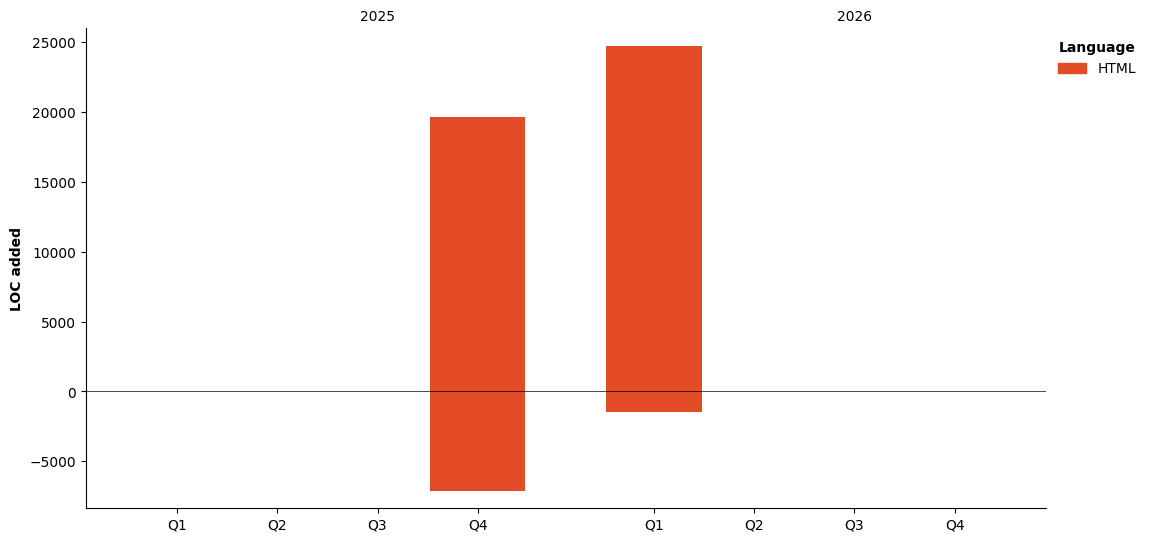
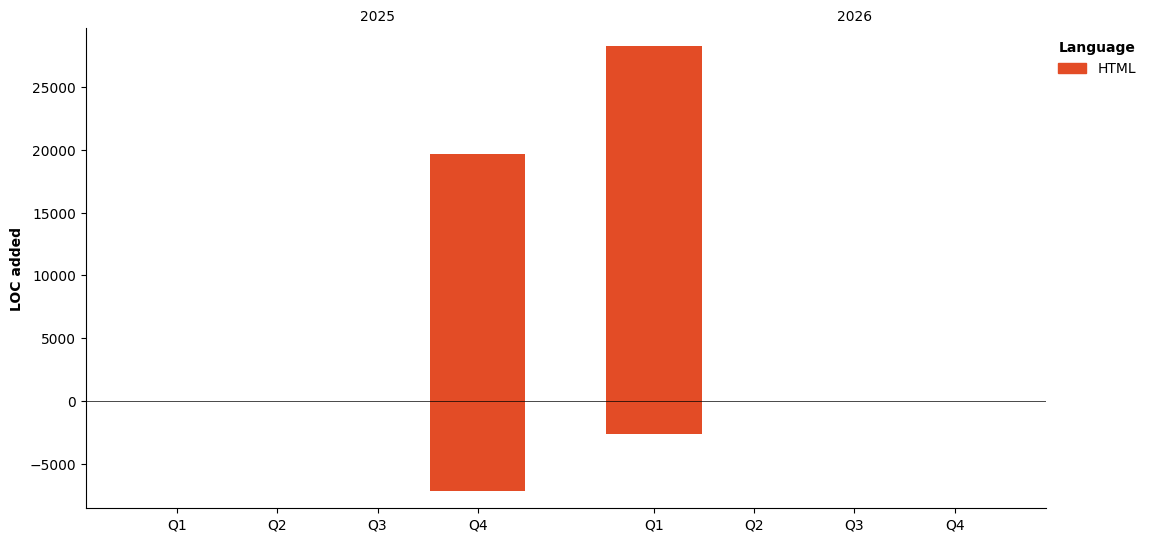
Updated with Dev Metrics

diff --git a/README.md b/README.md
@@ -18,7 +18,75 @@ I build AI-augmented knowledge infrastructure that compounds over time.
 **Total time in active development:**
 
 <!--START_SECTION:waka-->
-[![WakaTime](https://wakatime.com/badge/user/59d28359-905e-4790-b46e-27545d0d074f.svg)](https://wakatime.com/@winstonkoh87)
+![Code Time](http://img.shields.io/badge/Code%20Time-40%20hrs%204%20mins-blue)
+
+![Lines of code](https://img.shields.io/badge/From%20Hello%20World%20I%27ve%20Written-47.92%20thousand%20lines%20of%20code-blue)
+
+**🐱 My GitHub Data** 
+
+> 📦 470.0 kB Used in GitHub's Storage 
+ > 
+> 🏆 117 Contributions in the Year 2026
+ > 
+> 🚫 Not Opted to Hire
+ > 
+> 📜 3 Public Repositories 
+ > 
+> 🔑 1 Private Repositories 
+ > 
+**I'm a Night 🦉** 
+
+```text
+🌞 Morning                44 commits          ████░░░░░░░░░░░░░░░░░░░░░   17.60 % 
+🌆 Daytime                34 commits          ███░░░░░░░░░░░░░░░░░░░░░░   13.60 % 
+🌃 Evening                106 commits         ███████████░░░░░░░░░░░░░░   42.40 % 
+🌙 Night                  66 commits          ███████░░░░░░░░░░░░░░░░░░   26.40 % 
+```
+📅 **I'm Most Productive on Sunday** 
+
+```text
+Monday                   31 commits          ███░░░░░░░░░░░░░░░░░░░░░░   12.40 % 
+Tuesday                  22 commits          ██░░░░░░░░░░░░░░░░░░░░░░░   08.80 % 
+Wednesday                8 commits           █░░░░░░░░░░░░░░░░░░░░░░░░   03.20 % 
+Thursday                 6 commits           █░░░░░░░░░░░░░░░░░░░░░░░░   02.40 % 
+Friday                   63 commits          ██████░░░░░░░░░░░░░░░░░░░   25.20 % 
+Saturday                 56 commits          ██████░░░░░░░░░░░░░░░░░░░   22.40 % 
+Sunday                   64 commits          ██████░░░░░░░░░░░░░░░░░░░   25.60 % 
+```
+
+
+📊 **This Week I Spent My Time On** 
+
+```text
+🕑 Time Zone: Asia/Singapore
+
+💬 Programming Languages: 
+Markdown                 22 hrs 22 mins      ██████████████░░░░░░░░░░░   56.82 % 
+Python                   17 hrs              ███████████░░░░░░░░░░░░░░   43.18 % 
+Text                     0 secs              ░░░░░░░░░░░░░░░░░░░░░░░░░   00.00 % 
+
+🔥 Editors: 
+Antigravity              39 hrs 22 mins      █████████████████████████   100.00 % 
+
+🐱💻 Projects: 
+Project Athena           34 hrs 50 mins      ██████████████████████░░░   88.47 % 
+Athena-Public            4 hrs 32 mins       ███░░░░░░░░░░░░░░░░░░░░░░   11.53 % 
+```
+
+**I Mostly Code in HTML** 
+
+```text
+HTML                     3 repos             █████████████████████████   100.00 % 
+```
+
+
+
+**Timeline**
+
+![Lines of Code chart](https://raw.githubusercontent.com/winstonkoh87/winstonkoh87/main/assets/bar_graph.png)
+
+
+ Last Updated on 05/01/2026 16:56:24 UTC
 <!--END_SECTION:waka-->
 
 ---
